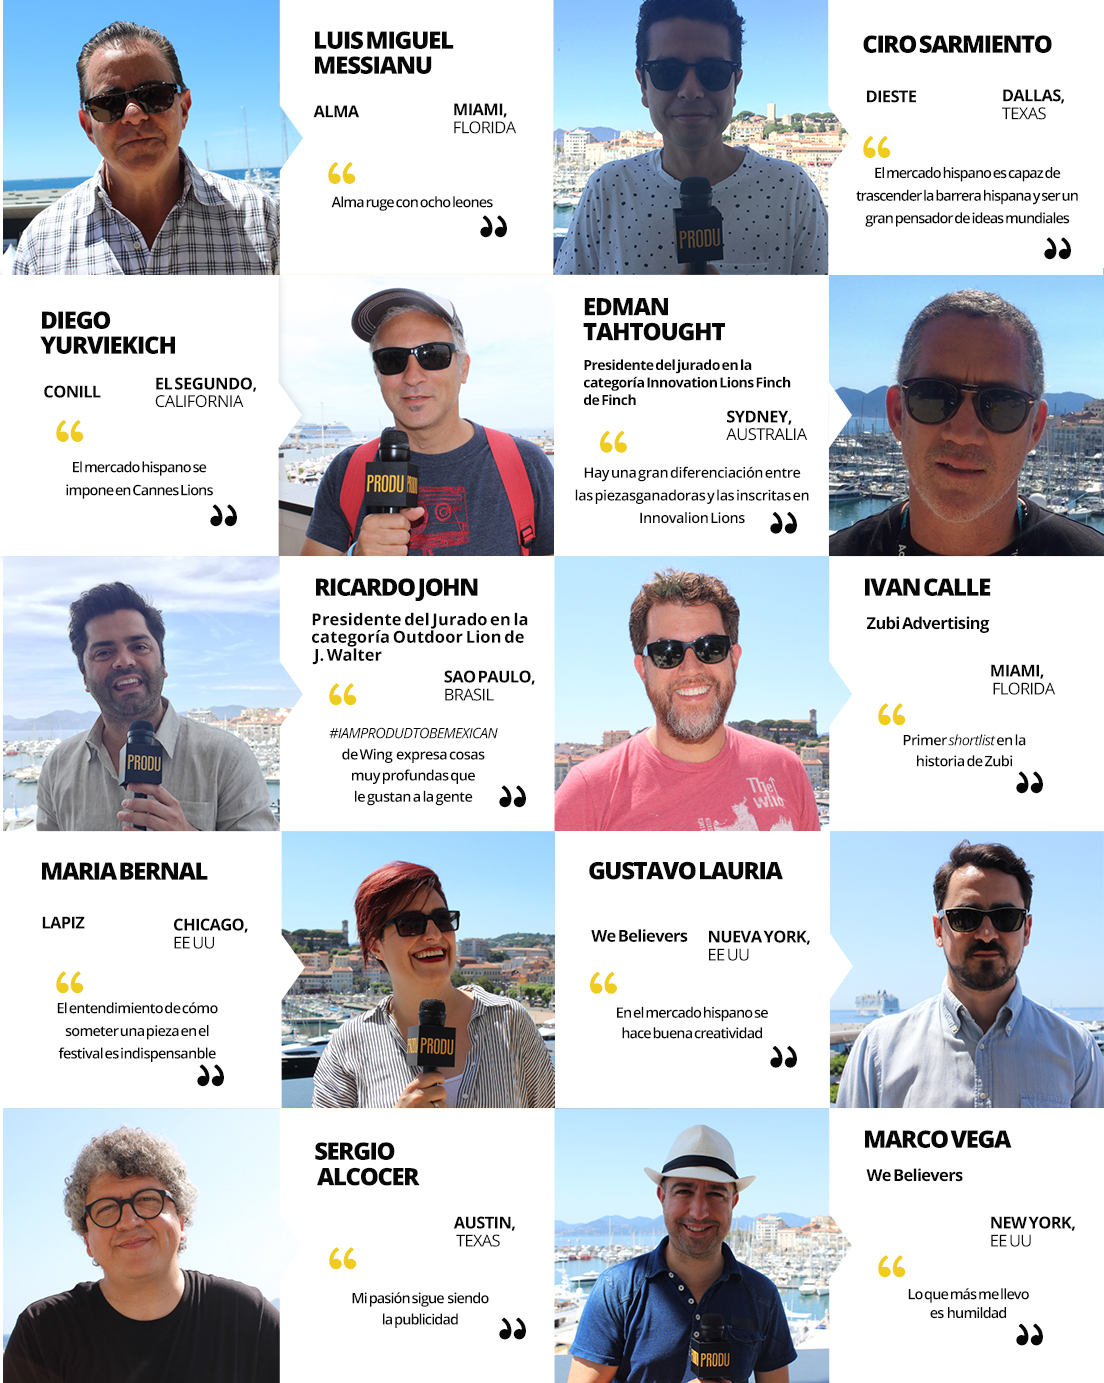
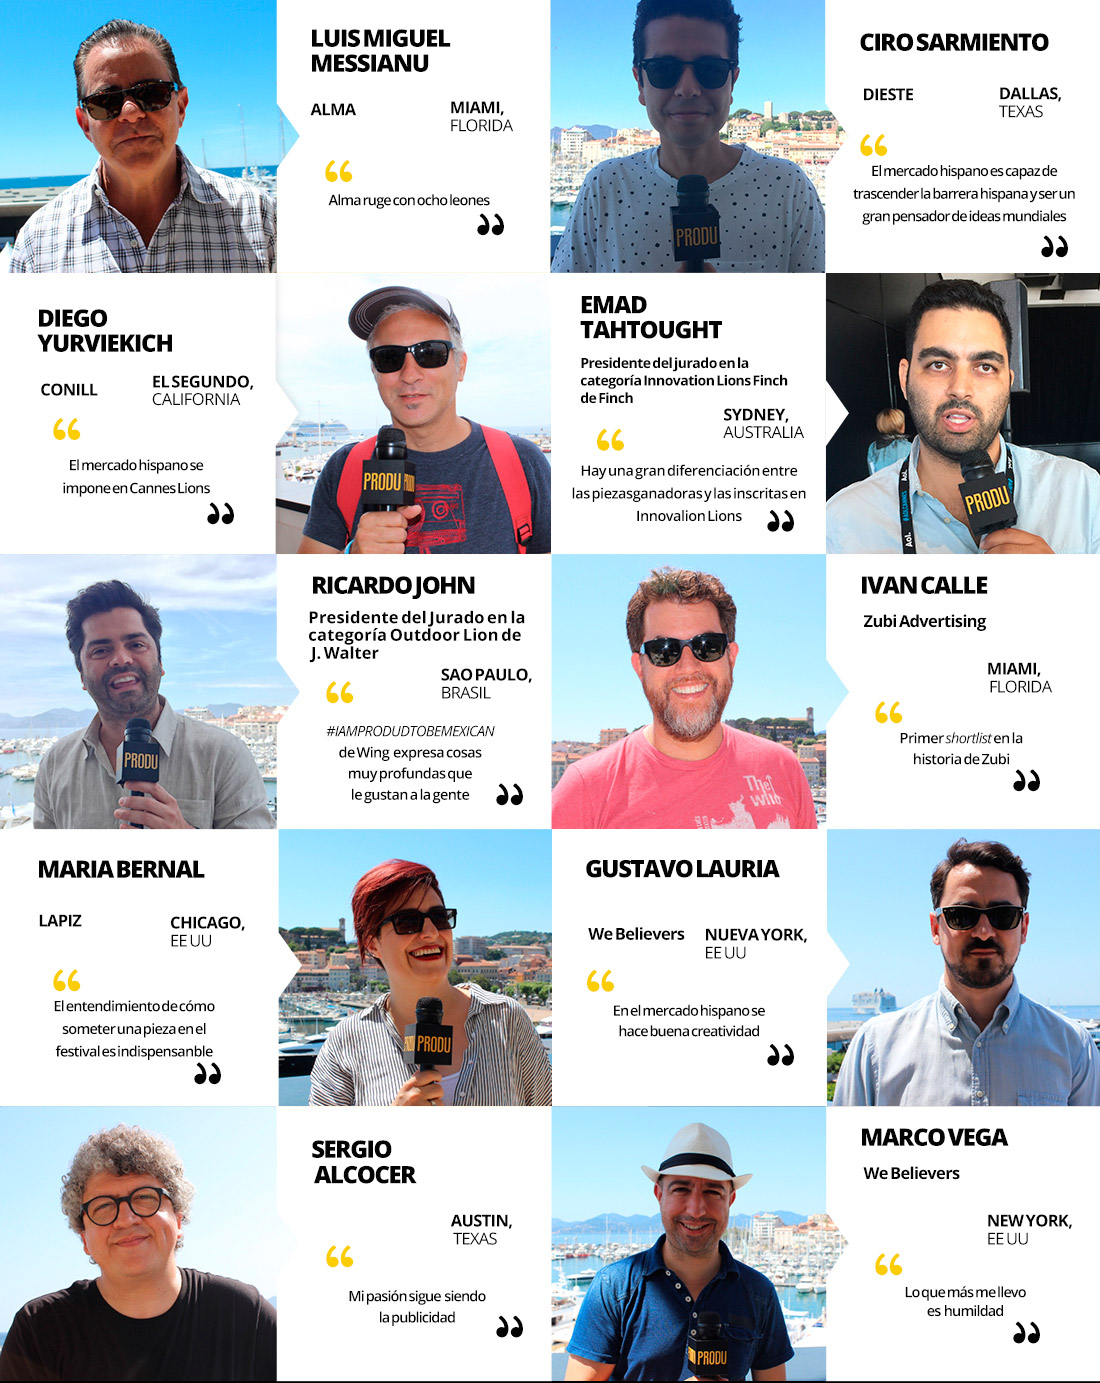
grids

diff --git a/promo/grid_latam.html b/promo/grid_latam.html
@@ -14,21 +14,22 @@
     <tbody>
         <tr>
             <td>
-<img id="Image-Maps-Com-image-maps-2016-06-28-155832" src="img/grid/us.jpg" border="0" width="1104" height="1388" orgWidth="1104" orgHeight="1388" usemap="#image-maps-2016-06-28-155832" alt="" />
-<map name="image-maps-2016-06-28-155832" id="ImageMapsCom-image-maps-2016-06-28-155832">
-<area  alt="" title="" href="http://www.produ.com/publicidad/noticia.html?idnoti=138919" shape="rect" coords="0,0,552,274" style="outline:none;" target="_blank"     />
-<area  alt="" title="" href="http://www.produ.com/publicidad/noticia.html?idnoti=139127&Sec1=Publici&Sec=his" shape="rect" coords="554,0,1104,274" style="outline:none;" target="_blank"     />
-<area  alt="" title="" href=" http://www1.produ.com/videos/%2011188" shape="rect" coords="0,277,557,556" style="outline:none;" target="_blank"     />
-<area  alt="" title="" href="http://www.produ.com/publicidad/noticia.html?idnoti=139008&Sec1=Publici&Sec=his" shape="rect" coords="554,273,1104,557" style="outline:none;" target="_blank"     />
-<area  alt="" title="" href="http://www.produ.com/publicidad/noticia.html?idnoti=138948" shape="rect" coords="0,555,554,831" style="outline:none;" target="_blank"     />
-<area  alt="" title="" href="http://www1.produ.com/especial/124" shape="rect" coords="555,554,1104,830" style="outline:none;" target="_blank"     />
-<area  alt="" title="" href="http://www1.produ.com/especial/124" shape="rect" coords="0,833,555,1109" style="outline:none;" target="_blank"     />
-<area  alt="" title="" href="http://www.produ.com/publicidad/noticia.html?idnoti=139084&Sec1=Publici&Sec=" shape="rect" coords="555,832,1104,1106" style="outline:none;" target="_blank"     />
-<area  alt="" title="" href="http://www1.produ.com/especial/124" shape="rect" coords="555,1107,1104,1388" style="outline:none;" target="_blank"     />
-<area  alt="" title="" href=" http://www1.produ.com/especial/124" shape="rect" coords="0,1108,554,1384" style="outline:none;" target="_blank"     />
-<area shape="rect" coords="1102,1386,1104,1388" alt="Image Map" style="outline:none;" title="Image Map" href="http://www.image-maps.com/index.php?aff=mapped_users_0" />
+<img id="Image-Maps-Com-image-maps-2016-06-28-164601"  src="http://agustindavid.github.io/promo/img/grid/latam.jpg" border="0" width="1100" height="1665" orgWidth="1100" orgHeight="1665" usemap="#image-maps-2016-06-28-164601" alt="" />
+<map name="image-maps-2016-06-28-164601" id="ImageMapsCom-image-maps-2016-06-28-164601">
+<area  alt="" title="" href="http://www.produ.com/publicidad/noticia.html?idnoti=138922" shape="rect" coords="0,0,553,274" style="outline:none;" target="_self"     />
+<area  alt="" title="" href="http://www.produ.com/publicidad/noticia.html?idnoti=139017" shape="rect" coords="555,0,1100,274" style="outline:none;" target="_self"     />
+<area  alt="" title="" href="http://www.produ.com/publicidad/noticia.html?idnoti=138976" shape="rect" coords="0,275,550,557" style="outline:none;" target="_self"     />
+<area  alt="" title="" href="http://www.produ.com/tecnologia/noticia.html?idnoti=139046" shape="rect" coords="551,277,1100,558" style="outline:none;" target="_self"     />
+<area  alt="" title="" href="http://www.produ.com/tecnologia/noticia.html?idnoti=139132" shape="rect" coords="0,553,549,834" style="outline:none;" target="_self"     />
+<area  alt="" title="" href="http://www.produ.com/publicidad/noticia.html?idnoti=139014" shape="rect" coords="550,556,1100,833" style="outline:none;" target="_self"     />
+<area  alt="" title="" href="http://www.produ.com/publicidad/noticia.html?idnoti=139041&Sec1=Publici&Sec=" shape="rect" coords="0,831,550,1108" style="outline:none;" target="_self"     />
+<area  alt="" title="" href="http://www.produ.com/publicidad/noticia.html?idnoti=139114" shape="rect" coords="553,831,1100,1109" style="outline:none;" target="_self"     />
+<area  alt="" title="" href="http://www.produ.com/publicidad/noticia.html?idnoti=139016" shape="rect" coords="0,1108,547,1386" style="outline:none;" target="_self"     />
+<area  alt="" title="" href="http://www.produ.com/publicidad/noticia.html?idnoti=139039&Sec1=Publici&Sec=his" shape="rect" coords="550,1112,1098,1384" style="outline:none;" target="_self"     />
+<area  alt="" title="" href="http://www.produ.com/publicidad/noticia.html?idnoti=138977" shape="rect" coords="0,1380,552,1664" style="outline:none;" target="_self"     />
+<area  alt="" title="" href="http://www.produ.com/publicidad/noticia.html?idnoti=139116" shape="rect" coords="552,1382,1100,1665" style="outline:none;" target="_self"     />
+<area shape="rect" coords="1098,1663,1100,1665" alt="Image Map" style="outline:none;" title="Image Map" href="http://www.image-maps.com/index.php?aff=mapped_users_0" />
 </map>
-
 
 
             </td>
